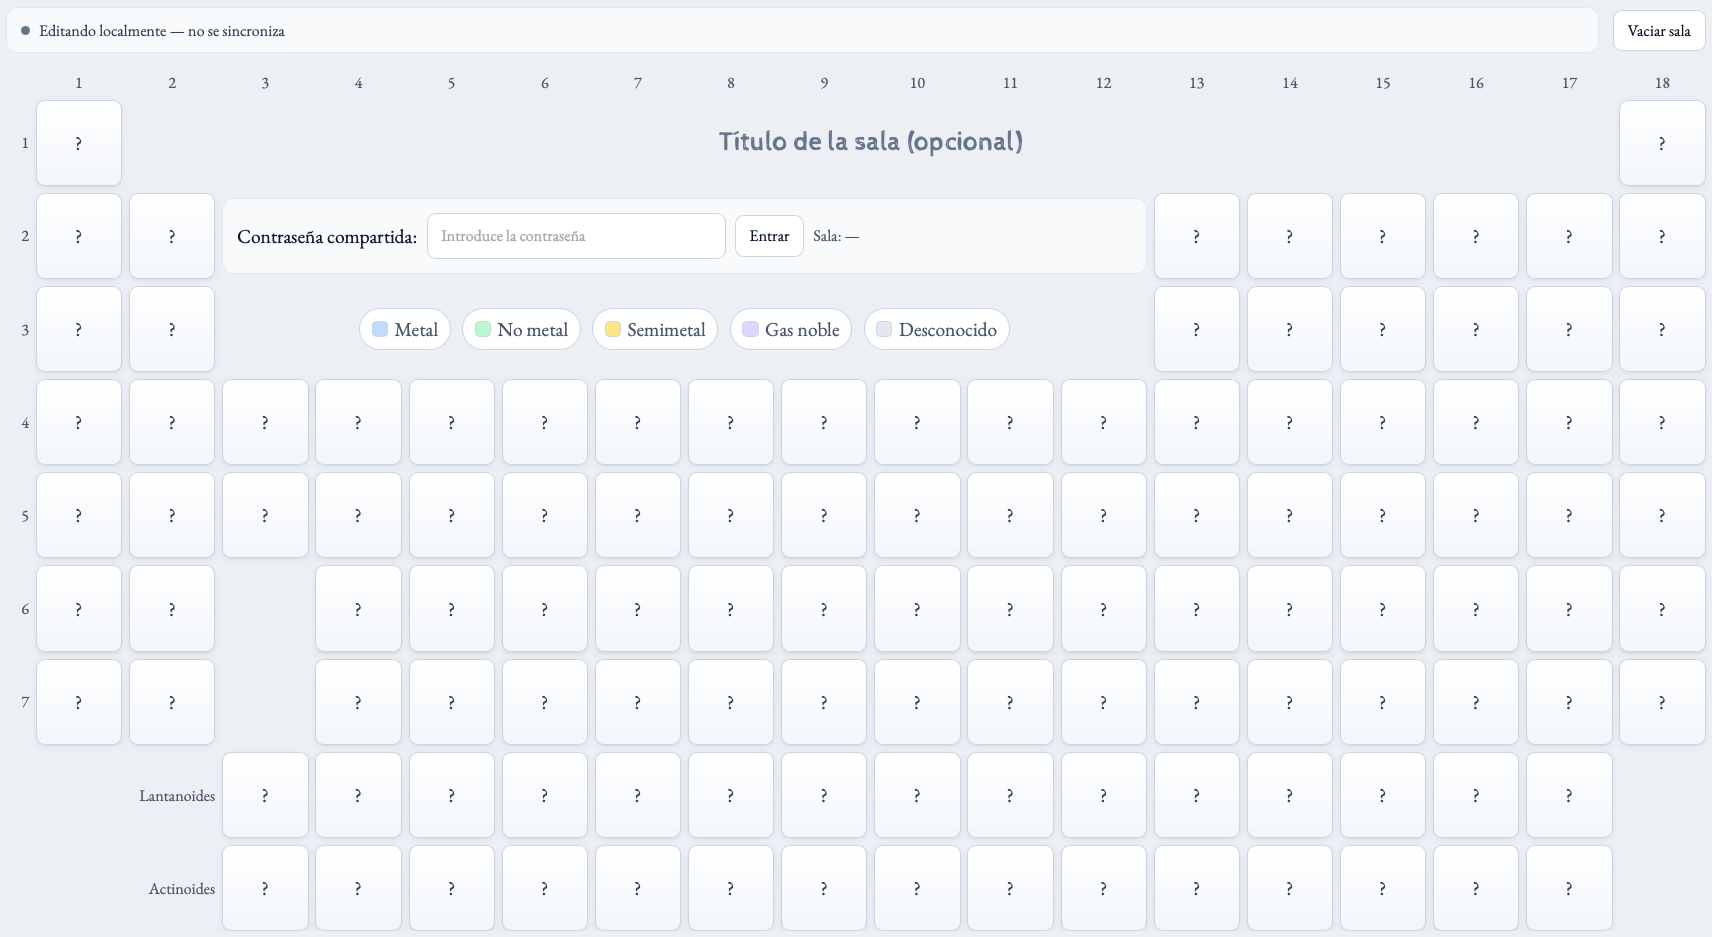
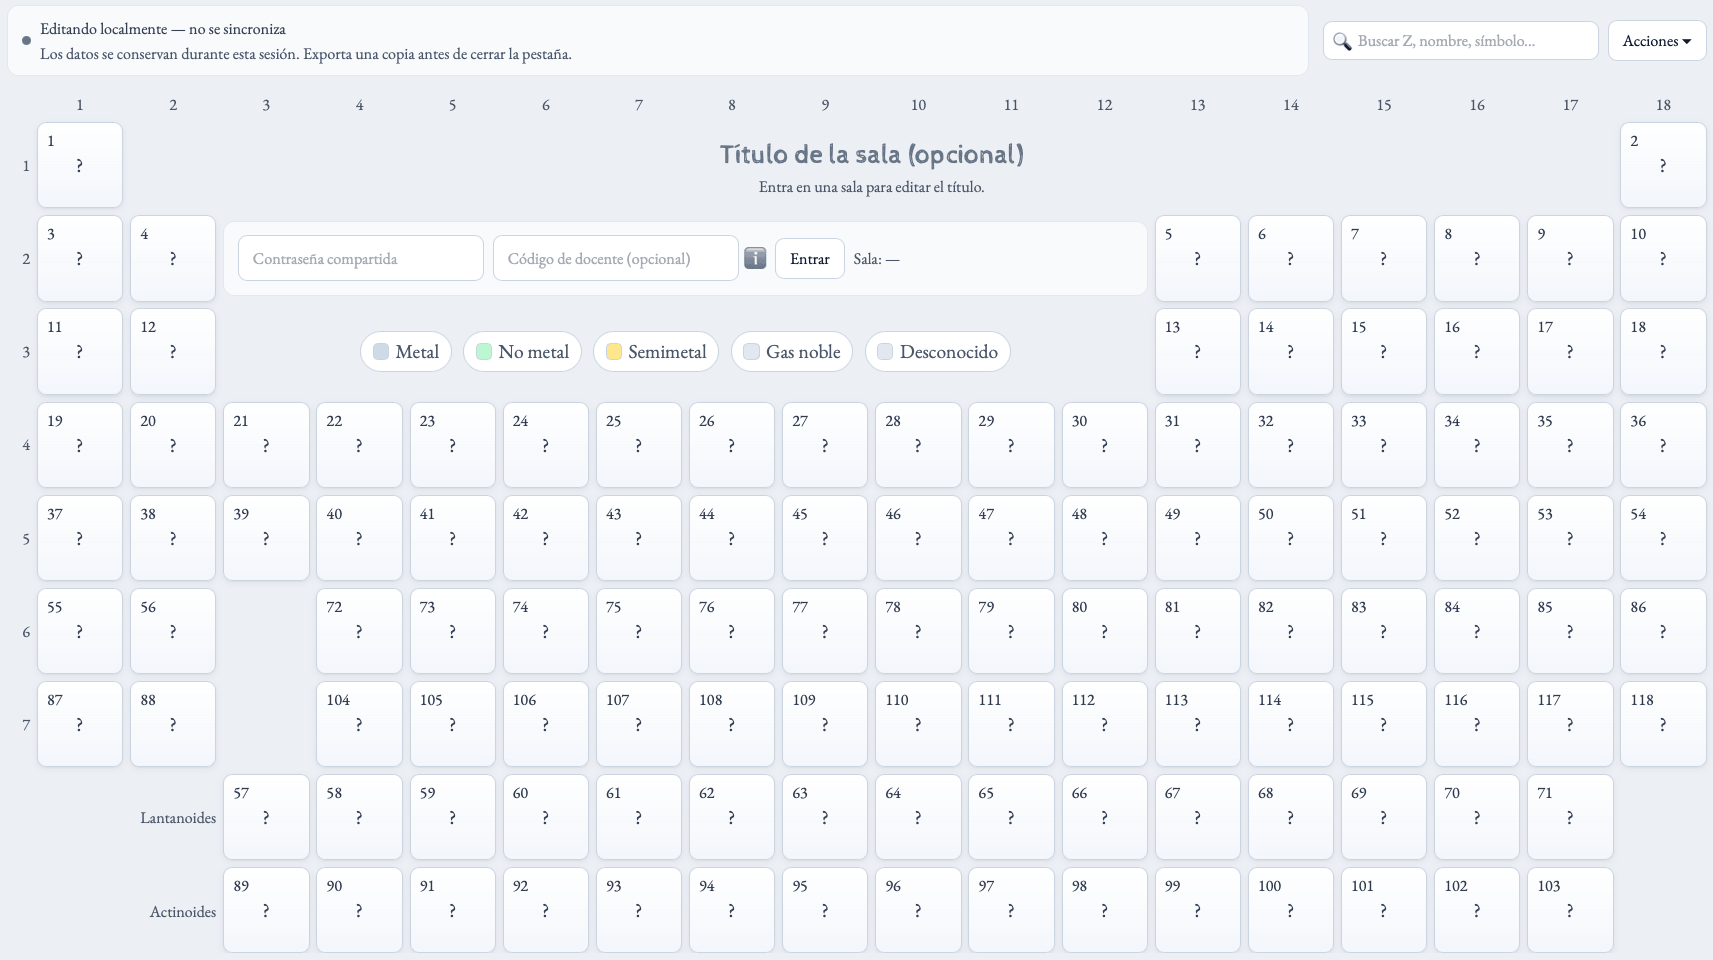
Minor update

diff --git a/content/es/post/tabla-periodica-colaborativa/index.md b/content/es/post/tabla-periodica-colaborativa/index.md
@@ -22,7 +22,7 @@ featured: true
 La **tabla periódica** que encontrarás aquí no es una más: está pensada como un **recurso interactivo y colaborativo** en el que estudiantes y docentes pueden construir juntos el conocimiento químico.
 {{% /callout %}}
 
-Cada elemento comienza en gris, con un simple signo de interrogación. Al hacer clic, se abre un **formulario** en el que es posible rellenar sus **principales datos**: número atómico, símbolo, nombre, masa atómica, configuración electrónica, clasificación, estado a temperatura ambiente, así como información histórica[^1], propiedades físicas, aplicaciones, riesgos y curiosidades.
+Cada elemento comienza en gris, con su número atómico y un simple signo de interrogación. Al hacer clic, se abre un **formulario** en el que es posible rellenar sus **principales datos**: número atómico, símbolo, nombre, masa atómica, configuración electrónica, clasificación, estado a temperatura ambiente, así como información histórica[^1], propiedades físicas, aplicaciones, riesgos y curiosidades.
 
 [^1]: Año y persona que descubrió el elemento.
 
